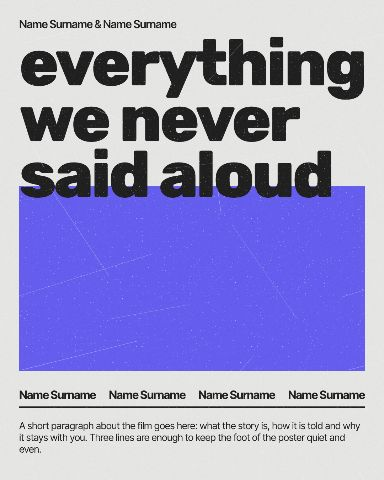
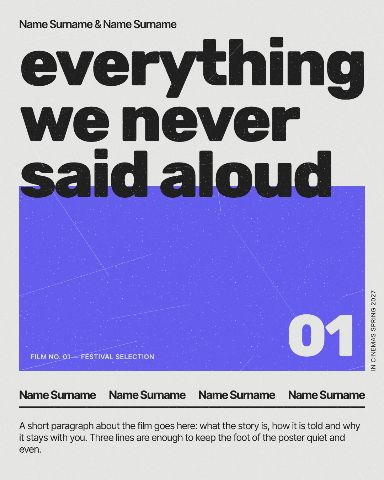
Give every poster marks of its own
The first renders followed their references too closely. All seven
posters now add 2-3 editable details of their own: vertical
captions, stamps, numbered circle markers, counters, index lines.
A test keeps at least two such fields on each poster.

Claude-Session: https://claude.ai/code/session_0196M21sNeHTsauuRLCZkMCB

Changed region(s): [[0.75, 0.625, 0.9375, 0.75], [0.0625, 0.7188, 0.4062, 0.75], [0.9688, 0.625, 1.0, 0.7812]]

diff --git a/src/lib/motion/template/circle-event-poster/view.ts b/src/lib/motion/template/circle-event-poster/view.ts
@@ -16,6 +16,21 @@ export const CIRCLE_EVENT_CSS = String.raw`
   background: var(--ce-accent);
 }
 
+.ce-marker {
+  position: absolute;
+  display: flex;
+  align-items: center;
+  justify-content: center;
+  border-radius: 50%;
+  background: var(--ce-ink);
+  color: var(--ce-paper);
+  letter-spacing: -0.03em;
+}
+
+.ce-rule {
+  background: var(--ce-accent);
+}
+
 .ce-text {
   position: absolute;
   margin: 0;
@@ -95,10 +110,18 @@ const draw = (p, width, height) => {
   const bodyTop = infoTop + (infoLines + BODY_GAP) * 1.04 * px(p.infoSize);
   const body = text('ce-body', 'left:' + infoX + 'px;top:' + bodyTop + 'px;width:' + BODY_WIDTH * width + 'px;font-size:' + BODY_SIZE * width + 'px', escaped(p.body));
 
+  const markerD = diameter * 0.16;
+  const angle = Math.PI * 1.25;
+  const mx = px(p.circleX) + Math.cos(angle) * diameter * 0.5 - markerD / 2;
+  const my = (p.circleY * height) / 100 + Math.sin(angle) * diameter * 0.5 - markerD / 2;
+  const marker = '<div class="ce-marker" style="' + box(mx, my, markerD, markerD) + 'font-size:' + markerD * 0.42 + 'px">' + escaped(p.marker) + '</div>';
+  const caption = upright(p.caption, width - margin * 0.75, height - FOOT_BOTTOM * width, BODY_SIZE * width * 1.3, p.ink);
+  const rule = '<div class="ce-rule" style="width:' + px(p.dateSize) * 2.2 + 'px;height:' + Math.max(3, width * 0.006) + 'px;margin-bottom:' + width * 0.018 + 'px"></div>';
+
   const date = text('ce-date', 'position:relative;font-size:' + px(p.dateSize) + 'px;margin-bottom:' + DATE_GAP * width + 'px', escaped(p.date));
   const title = text('ce-title', 'position:relative;font-size:' + px(p.titleSize) + 'px', titleHtml(linesOf(p.title)));
-  const foot = '<div class="ce-foot" style="left:' + margin * 0.8 + 'px;bottom:' + FOOT_BOTTOM * width + 'px">' + date + title + '</div>';
+  const foot = '<div class="ce-foot" style="left:' + margin * 0.8 + 'px;bottom:' + FOOT_BOTTOM * width + 'px">' + rule + date + title + '</div>';
 
-  scene.innerHTML = circle + name + info + body + foot;
+  scene.innerHTML = circle + marker + name + info + body + foot + caption;
 };
 `;

diff --git a/src/lib/motion/template/checker-steps-poster/view.ts b/src/lib/motion/template/checker-steps-poster/view.ts
@@ -12,17 +12,21 @@ const BODY_X = 0.727;
 const BODY_TOP = 0.03;
 const BODY_WIDTH = 0.245;
 const BAR = [0.043, 0.0115];
+const MARKER = 0.115;
+const MARKER_ROW = 3.2;
 
 const fontOf = (p) => (String(p.font).includes(',') ? p.font : '"' + p.font + '", system-ui, sans-serif');
 const escaped = (s) => String(s).replace(/[&<>"]/g, (c) => ({ '&': '&amp;', '<': '&lt;', '>': '&gt;', '"': '&quot;' })[c]);
 
-root.insertAdjacentHTML('beforeend', '<div class="cs"><div class="cs-grid"></div><div class="cs-title"></div><div class="cs-bar"></div><p class="cs-body"></p></div>');
+root.insertAdjacentHTML('beforeend', '<div class="cs"><div class="cs-grid"></div><div class="cs-title"></div><div class="cs-bar"></div><p class="cs-body"></p><div class="cs-index"></div><div class="cs-marker"></div></div>');
 
 const scene = root.querySelector('.cs');
 const grid = root.querySelector('.cs-grid');
 const title = root.querySelector('.cs-title');
 const bar = root.querySelector('.cs-bar');
 const body = root.querySelector('.cs-body');
+const index = root.querySelector('.cs-index');
+const marker = root.querySelector('.cs-marker');
 
 let cache = { key: '' };
 
@@ -81,6 +85,13 @@ const draw = () => {
   bar.style.cssText = box(BODY_X * width, BODY_TOP * height, BAR[0] * width, BAR[1] * width);
   body.style.cssText = 'left:' + BODY_X * width + 'px;top:' + (BODY_TOP * height + BAR[1] * width * 1.6) + 'px;width:' + BODY_WIDTH * width + 'px;font-size:' + (p.bodySize * width) / 100 + 'px';
   body.textContent = String(p.body || '');
+
+  const indexPx = (p.bodySize * width) / 100;
+  index.style.cssText = 'left:' + BODY_TOP * height + 'px;top:' + BODY_TOP * height + 'px;font-size:' + indexPx + 'px;border-top-width:' + BAR[1] * width * 0.35 + 'px';
+  index.textContent = String(p.index || '');
+  const d = MARKER * width;
+  marker.style.cssText = box(width - d - BODY_TOP * height * 1.2, start + MARKER_ROW * cell.h, d, d) + 'font-size:' + d * 0.36 + 'px';
+  marker.textContent = String(p.marker || '');
 };
 
 draw();

diff --git a/src/lib/motion/template/type-grid-poster/view.ts b/src/lib/motion/template/type-grid-poster/view.ts
@@ -19,12 +19,13 @@ const escaped = (s) => String(s).replace(/[&<>"]/g, (c) => ({ '&': '&amp;', '<':
 const partsOf = (line) => line.split(/(\[photo\]|->)/).map((s) => s.trim()).filter(Boolean);
 const wordsOf = (line) => partsOf(line).filter((s) => s !== PHOTO_MARK && s !== ARROW_MARK).join(' ');
 
-root.insertAdjacentHTML('beforeend', '<div class="tg"><div class="tg-stack"></div><div class="tg-foot"></div><span class="tg-probe"></span></div>');
+root.insertAdjacentHTML('beforeend', '<div class="tg"><div class="tg-stack"></div><div class="tg-foot"></div><div class="tg-extra"></div><span class="tg-probe"></span></div>');
 
 const scene = root.querySelector('.tg');
 const stack = root.querySelector('.tg-stack');
 const foot = root.querySelector('.tg-foot');
 const probe = root.querySelector('.tg-probe');
+const marks = root.querySelector('.tg-extra');
 
 let cache = { key: '' };
 
@@ -90,6 +91,11 @@ const draw = () => {
   const counter = { n: 0 };
   const pictures = mediaList(p.media);
   stack.innerHTML = lines.map((line) => lineHtml(line, pictures, counter)).join('');
+  const footTop = height - margin - footPx * FOOTER_ROWS * 0.62;
+  marks.innerHTML =
+    '<div class="tg-rule" style="left:' + margin + 'px;right:' + margin + 'px;top:' + (footTop - footPx * 0.9) + 'px;height:' + Math.max(2, width * 0.003) + 'px"></div>' +
+    '<div class="tg-stamp" style="right:' + margin + 'px;top:' + (footTop - footPx * 3.4) + 'px;font-size:' + footPx + 'px">' + escaped(p.issue) + '</div>' +
+    '<div class="tg-caption" style="left:' + (width - margin * 0.72) + 'px;top:' + (footTop - footPx * 4.5) + 'px;font-size:' + footPx * 0.75 + 'px">' + escaped(p.caption) + '</div>';
   foot.innerHTML = [p.footer1, p.footer2, p.footer3, p.footer4].map((c) => '<div>' + escaped(c || '') + '</div>').join('');
 };
 

diff --git a/src/lib/motion/template/boxed-type-poster/view.ts b/src/lib/motion/template/boxed-type-poster/view.ts
@@ -48,6 +48,19 @@ export const BOXED_TYPE_CSS = String.raw`
   padding: 0 0.4em;
 }
 
+.bx-counter {
+  position: absolute;
+  color: var(--bx-rule);
+  letter-spacing: 0.04em;
+  line-height: 1;
+  white-space: pre;
+}
+
+.bx-square {
+  position: absolute;
+  background: var(--bx-rule);
+}
+
 .bx-word {
   position: absolute;
   display: flex;
@@ -116,7 +129,11 @@ const draw = (p, width, height) => {
   const word = '<div class="bx-word" style="' + box(wordLeft, wordTop, WORD_RIGHT * width - wordLeft, wordHeight) + 'font-size:' + wordPx + 'px;padding-right:' + WORD_PAD * wordPx + 'px">' + escaped(p.word) + '</div>';
   const statement = stack('bx-statement', margin, wordTop + STATEMENT_DROP * wordHeight, statementPx, p.statement);
 
-  scene.innerHTML = '<div class="bx-rule" style="height:' + RULE * width + 'px"></div>' + tagRow(TAG_TOP * width) + title + word + statement + tagRow(bottomTop) + '<div class="bx-note-slot"></div>';
+  const counter = '<div class="bx-counter" style="left:' + (wordLeft + tagPx) + 'px;top:' + (wordTop + tagPx) + 'px;font-size:' + tagPx * 1.2 + 'px">' + escaped(p.counter) + '</div>';
+  const square = '<div class="bx-square" style="' + box(WORD_RIGHT * width - tagPx * 1.6, bottomTop - tagPx * 3.4, tagPx * 1.6, tagPx * 1.6) + '"></div>';
+  const caption = upright(p.caption, width - margin * 0.62, wordTop + wordHeight, tagPx, p.ink);
+
+  scene.innerHTML = '<div class="bx-rule" style="height:' + RULE * width + 'px"></div>' + tagRow(TAG_TOP * width) + title + word + statement + tagRow(bottomTop) + counter + square + caption + '<div class="bx-note-slot"></div>';
 
   scene.querySelectorAll('.bx-title .bx-line').forEach((line) => {
     line.style.padding = '0 ' + TITLE_PAD * titlePx + 'px';

diff --git a/src/lib/motion/template/block-title-poster/view.ts b/src/lib/motion/template/block-title-poster/view.ts
@@ -46,6 +46,25 @@ export const BLOCK_TITLE_CSS = String.raw`
   background: var(--bt-block);
 }
 
+.bt-number,
+.bt-label {
+  position: absolute;
+  color: var(--bt-paper);
+  white-space: pre;
+}
+
+.bt-number {
+  font-family: var(--bt-font);
+  font-weight: var(--bt-weight);
+  letter-spacing: -0.04em;
+  line-height: 0.8;
+}
+
+.bt-label {
+  font-weight: 600;
+  letter-spacing: 0.06em;
+}
+
 .bt-foot {
   position: absolute;
 }
@@ -137,6 +156,15 @@ const draw = (p, width, height) => {
 
   scene.innerHTML = foot + byline + '<div class="bt-block"></div>' + title + '<div class="bt-wear"></div>';
   const footTop = scene.querySelector('.bt-foot').offsetTop;
-  scene.querySelector('.bt-block').style.cssText = box(margin, blockTop, room, Math.max(0, footTop - BLOCK_GAP * width - blockTop));
+  const blockBottom = footTop - BLOCK_GAP * width;
+  scene.querySelector('.bt-block').style.cssText = box(margin, blockTop, room, Math.max(0, blockBottom - blockTop));
+  const inset = margin * 0.6;
+  const numberPx = size * 0.9;
+  scene.querySelector('.bt-wear').insertAdjacentHTML(
+    'beforebegin',
+    '<div class="bt-number" style="right:' + (margin + inset) + 'px;top:' + (blockBottom - inset - numberPx * 0.8) + 'px;font-size:' + numberPx + 'px">' + escaped(p.blockNumber) + '</div>' +
+      '<div class="bt-label" style="left:' + (margin + inset) + 'px;top:' + (blockBottom - inset - px(p.bylineSize) * 0.6) + 'px;font-size:' + px(p.bylineSize) * 0.6 + 'px">' + escaped(p.blockLabel) + '</div>' +
+      upright(p.caption, width - margin * 0.72, blockBottom, px(p.bylineSize) * 0.55, p.ink)
+  );
 };
 `;

diff --git a/src/lib/motion/template/square-words-poster/view.ts b/src/lib/motion/template/square-words-poster/view.ts
@@ -32,7 +32,20 @@ export const SQUARE_WORDS_CSS = String.raw`
   letter-spacing: -0.005em;
 }
 
+.sw-index {
+  position: absolute;
+  border-top: 2px solid var(--sw-ink);
+  padding-top: 0.6em;
+  letter-spacing: 0.01em;
+  white-space: pre;
+}
+
 .sw-dot {
+  display: flex;
+  align-items: center;
+  justify-content: center;
+  color: var(--sw-paper);
+  letter-spacing: -0.02em;
   position: absolute;
   border-radius: 50%;
   background: var(--sw-dot);
@@ -79,8 +92,11 @@ const draw = (p, width, height) => {
 
   const d = px(p.dotSize);
   s.setProperty('--sw-ring', RING * d + 'px');
-  const dot = '<div class="sw-dot" style="' + box(sq.x + sq.w - d / 2, (p.dotY * height) / 100 - d / 2, d, d) + '"></div>';
+  const dot = '<div class="sw-dot" style="' + box(sq.x + sq.w - d / 2, (p.dotY * height) / 100 - d / 2, d, d) + 'font-size:' + d * 0.34 + 'px">' + escaped(p.dotLabel) + '</div>';
+  const edge = width * 0.06;
+  const index = '<div class="sw-index" style="left:' + edge + 'px;right:' + edge + 'px;bottom:' + edge * 0.8 + 'px;font-size:' + px(p.bodySize) + 'px">' + escaped(p.index) + '</div>';
+  const caption = upright(p.caption, width - edge * 0.75, height * 0.62, px(p.bodySize) * 0.85, p.ink);
 
-  scene.innerHTML = words.slice(0, split).join('') + square + body + dot + words.slice(split).join('');
+  scene.innerHTML = words.slice(0, split).join('') + square + body + dot + words.slice(split).join('') + index + caption;
 };
 `;

diff --git a/src/lib/motion/template/overlay-grid-poster/view.ts b/src/lib/motion/template/overlay-grid-poster/view.ts
@@ -32,6 +32,20 @@ export const OVERLAY_GRID_CSS = String.raw`
   letter-spacing: 0.04em;
 }
 
+.og-stamp {
+  position: absolute;
+  background: var(--og-ink);
+  color: var(--og-paper);
+  padding: 0.3em 0.55em;
+  line-height: 1;
+  white-space: pre;
+}
+
+.og-rule {
+  position: absolute;
+  background: var(--og-ink);
+}
+
 .og-mark {
   position: absolute;
   border: 0 solid var(--og-ink);
@@ -98,6 +112,10 @@ const draw = (p, width, height) => {
 
   const marks = mark('tl', left, FRAME.top * height - drop * 0.4, arm, line) + mark('bl', left, FRAME.bottom * height, arm, line) + mark('br', FRAME.right * width, FRAME.bottom * height, arm, line);
 
-  scene.innerHTML = yellowHtml + rowHtml + footHtml + marks;
+  const stamp = '<div class="og-stamp" style="right:' + (1 - FRAME.right) * width + 'px;top:' + FRAME.top * height + 'px;font-size:' + small + 'px">' + escaped(p.issue) + '</div>';
+  const rule = '<div class="og-rule" style="' + box(HEAD_X * width, rows[2][0] - drop * 0.6, (FRAME.right - HEAD_X) * width, line * 2) + '"></div>';
+  const caption = upright(p.caption, (FRAME.right + 0.03) * width, FRAME.bottom * height, foot, p.ink);
+
+  scene.innerHTML = yellowHtml + rowHtml + footHtml + marks + rule + stamp + caption;
 };
 `;

diff --git a/src/lib/motion/template/overlay-grid-poster/component.ts b/src/lib/motion/template/overlay-grid-poster/component.ts
@@ -1,5 +1,5 @@
 import { VAR_PREFIX, type CustomComponent, type PropSpec } from '$lib/motion/custom/component';
-import { colourProp, fontProp, linesProp, numberProp, posterComponent, prefixProp } from '../poster-kit';
+import { colourProp, fontProp, linesProp, numberProp, posterComponent, prefixProp, textProp } from '../poster-kit';
 import { OVERLAY_GRID_CSS, OVERLAY_GRID_VIEW } from './view';
 
 export const OVERLAY_GRID_COMPONENT = 'OverlayGridPoster';
@@ -17,6 +17,8 @@ export const OVERLAY_GRID_PROPS: Record<string, PropSpec> = {
   foot2: linesProp('Footer, right column', 'OPENING HOURS:\nTUE–SAT 2–7 PM\nSUN 2–5 PM\n\nAND BY APPOINTMENT\nTEL. 000 000 00 00'),
   overlay: linesProp('Overlaid words, right', '2 ROOMS\n16 DESIGNS\n 5 MONITORS\n2 PROJECTORS\n16 CATALOGUES\n7 CORPORATE'),
   overlayLow: linesProp('Overlaid words, lower left', 'ER\nRE\nAYER\nGE\n\nATE DESIGNS'),
+  issue: textProp('Stamp, top right', 'NO. 07', { maxLength: 20 }),
+  caption: textProp('Vertical caption, right edge', 'EXHIBITION SERIES — SHEET 07 / 12', { maxLength: 60 }),
   font: fontProp('Font', 'Azeret Mono'),
   fontWeight: numberProp('Weight', 500, 300, 800, 100, 'Style'),
   paper: colourProp('Paper colour', '#c9c9c7'),

diff --git a/src/lib/motion/template/block-title-poster/component.ts b/src/lib/motion/template/block-title-poster/component.ts
@@ -1,5 +1,5 @@
 import { VAR_PREFIX, type CustomComponent, type PropSpec } from '$lib/motion/custom/component';
-import { colourProp, fontProp, linesProp, numberProp, posterComponent, prefixProp } from '../poster-kit';
+import { colourProp, fontProp, linesProp, numberProp, posterComponent, prefixProp, textProp } from '../poster-kit';
 import { BLOCK_TITLE_CSS, BLOCK_TITLE_VIEW } from './view';
 
 export const BLOCK_TITLE_COMPONENT = 'BlockTitlePoster';
@@ -14,6 +14,9 @@ export const BLOCK_TITLE_PROPS: Record<string, PropSpec> = {
   byline: linesProp('Line above the title', 'Name Surname & Name Surname'),
   names: linesProp('Names in the row, one per line', 'Name Surname\nName Surname\nName Surname\nName Surname'),
   body: linesProp('Paragraph at the foot', BODY, 800),
+  blockNumber: textProp('Number in the block', '01', { maxLength: 6 }),
+  blockLabel: textProp('Label in the block', 'FILM NO. 01 — FESTIVAL SELECTION', { maxLength: 60 }),
+  caption: textProp('Vertical caption, right edge', 'IN CINEMAS SPRING 2027', { maxLength: 60 }),
   font: fontProp('Title font', 'Rubik'),
   textFont: fontProp('Text font', 'Inter Tight'),
   fontWeight: numberProp('Title weight', 800, 300, 900, 100, 'Style'),

diff --git a/src/lib/motion/template/square-words-poster/component.ts b/src/lib/motion/template/square-words-poster/component.ts
@@ -1,5 +1,5 @@
 import { VAR_PREFIX, type CustomComponent, type PropSpec } from '$lib/motion/custom/component';
-import { colourProp, fontProp, linesProp, numberProp, posterComponent, prefixProp } from '../poster-kit';
+import { colourProp, fontProp, linesProp, numberProp, posterComponent, prefixProp, textProp } from '../poster-kit';
 import { SQUARE_WORDS_CSS, SQUARE_WORDS_VIEW } from './view';
 
 export const SQUARE_WORDS_COMPONENT = 'SquareWordsPoster';
@@ -16,6 +16,9 @@ export const SQUARE_WORDS_PROPS: Record<string, PropSpec> = {
   places: linesProp('Word places, "left baseline" per line (% width, % height)', PLACES),
   front: numberProp('Words from this line on sit over the square', 5, 1, 20, 1),
   body: linesProp('Text in the square', BODY, 400),
+  dotLabel: textProp('Number in the circle', '07', { maxLength: 4 }),
+  index: textProp('Index line, foot', '(07) — Studio Name, Index 2027', { maxLength: 60 }),
+  caption: textProp('Vertical caption, right edge', 'brand notes, sheet seven', { maxLength: 60 }),
   font: fontProp('Font', 'Work Sans'),
   fontWeight: numberProp('Weight', 400, 200, 800, 100, 'Style'),
   paper: colourProp('Background colour', '#c9c8c8'),

diff --git a/src/lib/motion/template/circle-event-poster/component.ts b/src/lib/motion/template/circle-event-poster/component.ts
@@ -1,5 +1,5 @@
 import { VAR_PREFIX, type CustomComponent, type PropSpec } from '$lib/motion/custom/component';
-import { colourProp, fontProp, linesProp, numberProp, posterComponent, prefixProp } from '../poster-kit';
+import { colourProp, fontProp, linesProp, numberProp, posterComponent, prefixProp, textProp } from '../poster-kit';
 import { CIRCLE_EVENT_CSS, CIRCLE_EVENT_VIEW } from './view';
 
 export const CIRCLE_EVENT_COMPONENT = 'CircleEventPoster';
@@ -17,6 +17,8 @@ export const CIRCLE_EVENT_PROPS: Record<string, PropSpec> = {
   date: linesProp('Date, above the title', 'mon 00\nthursday'),
   info: linesProp('Schedule column, right', INFO),
   body: linesProp('Small text, right', BODY, 800),
+  marker: textProp('Number in the small circle', '03', { maxLength: 4 }),
+  caption: textProp('Vertical caption, right edge', 'talk series — evening three', { maxLength: 60 }),
   font: fontProp('Font', 'Inter Tight'),
   fontWeight: numberProp('Weight', 700, 300, 900, 100, 'Style'),
   paper: colourProp('Paper colour', '#ffffff'),

diff --git a/src/lib/motion/template/checker-steps-poster/component.ts b/src/lib/motion/template/checker-steps-poster/component.ts
@@ -17,6 +17,8 @@ const colour = (title: string, value: string): PropSpec => ({ type: 'string', ti
 export const CHECKER_PROPS: Record<string, PropSpec> = {
   title: text('Title, one step per line', TITLE, { format: PropFormat.Textarea, maxLength: 200 }),
   body: text('Text block, top right', BODY, { format: PropFormat.Textarea, maxLength: 600 }),
+  index: text('Index line, top left', 'NO. 12 — SERIES ON HABITS'),
+  marker: text('Number in the circle', '05', { maxLength: 4 }),
   font: { type: 'string', title: 'Font', format: PropFormat.Font, default: 'Inter Tight', group: 'Style' },
   fontWeight: number('Title weight', 700, 300, 900, 'Style', 100),
   tracking: number('Title tracking (em)', -0.045, -0.1, 0.05, 'Style', 0.005),
